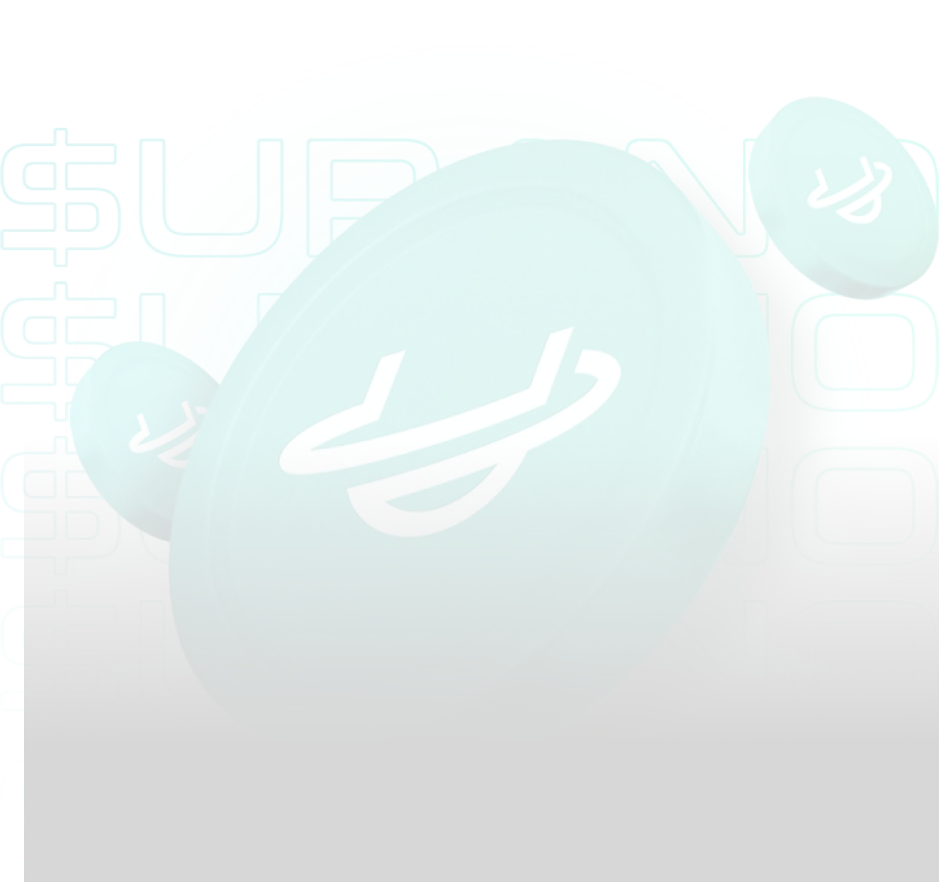
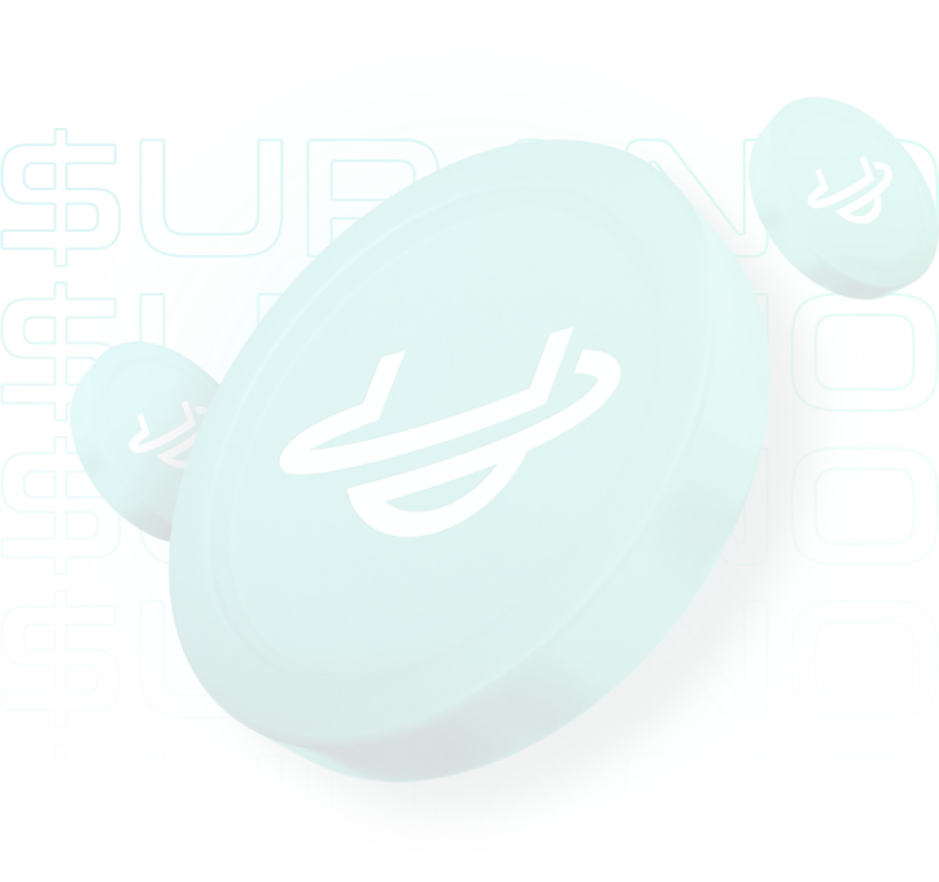
.

Changed region(s): [[0.0, 0.7041, 1.0, 1.0]]

diff --git a/src/app/profile/page.tsx b/src/app/profile/page.tsx
@@ -498,7 +498,7 @@ export default function Profile() {
                     </Stack>
                 </Stack>
             </Stack>
-            <Image src={profileToken1} alt="profileToken2" width={300} height={300} style={{ position: "absolute", bottom: "20vh", left: -30 }} />
+            <Image src={profileToken2} alt="profileToken2" width={300} height={300} style={{ position: "absolute", bottom: "20vh", left: -30 }} />
             <Footer />
         </Stack >
     );
